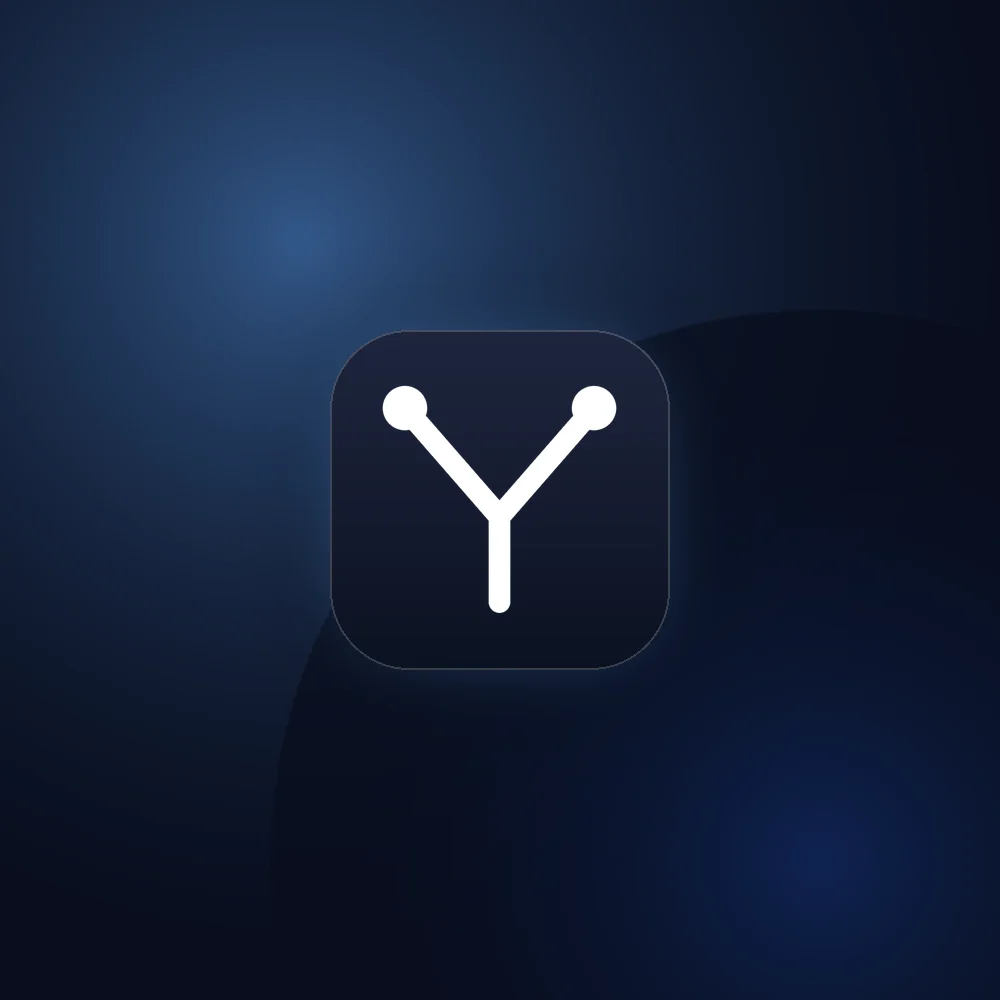
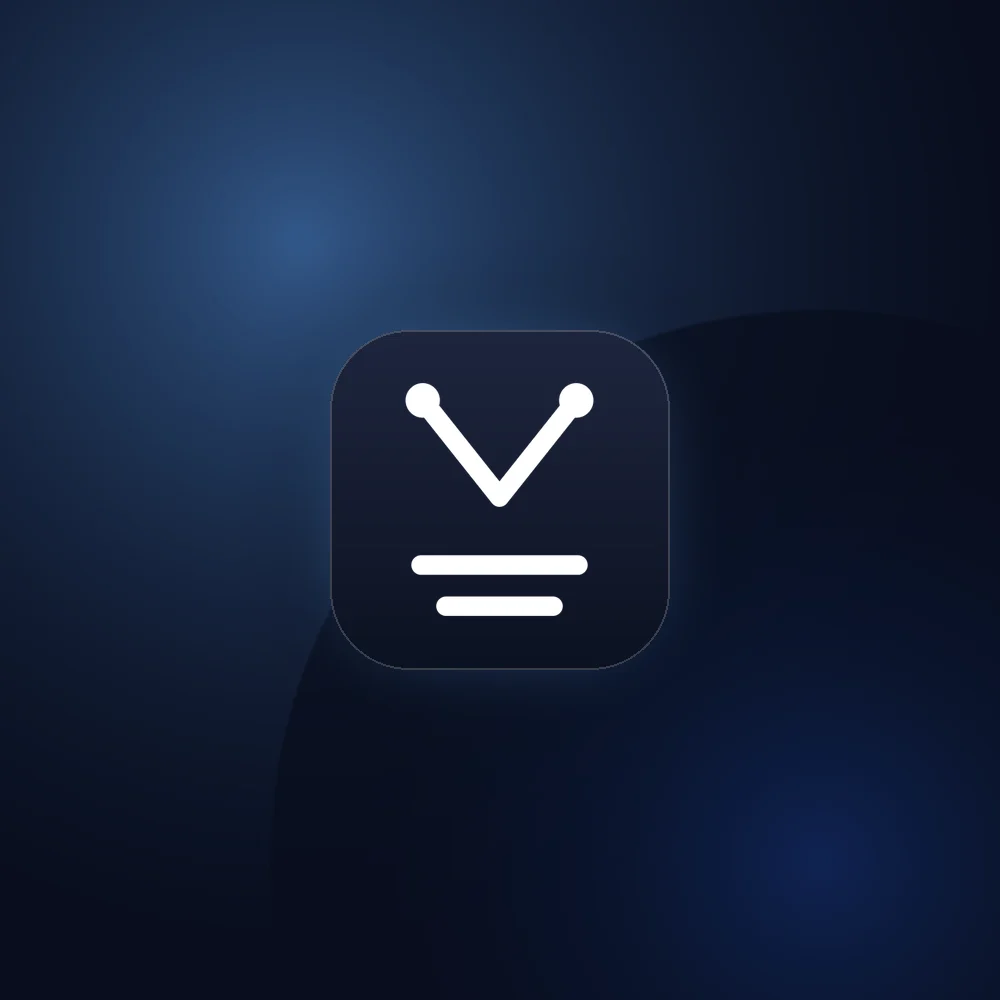
style(ot-core): the mark was a letter, not a meaning
The first pass drew two dots, two converging arms and a stem, which is a
perfectly good letter Y and says nothing about the library. In a grid of
app icons it read as a monogram — and Y is taken several times over.

Adding the document the two writers converge on turns the same shape into
a sentence: these two, into that. The arms are steeper as well, because a
wide V reads as a chevron pointing down while a narrow one reads as two
things arriving at the same place.

Two lines underneath rather than three. A third outweighs the pair above
it, and the eye then takes the paragraph as the subject and the arms as
decoration, which inverts what the mark is for.

Only ot-core's cover changed; the other six regenerated byte-identical.

Changed region(s): [[0.372, 0.372, 0.62, 0.62]]

diff --git a/scripts/make-ot-icon.py b/scripts/make-ot-icon.py
@@ -1,16 +1,31 @@
 """
-The ot-core mark: two edit streams converging into one.
+The ot-core mark: two writers, one document.
 
-Two people write independently — the two dots and the two arms — and the
-algorithm brings them to one agreed document, the trunk. The whole library in
-one glyph, and it survives being shrunk to 24px in a list.
+Two people edit at once — the pair of dots, and the arms converging from them —
+and what they produce is a single agreed document, the lines underneath.
 
-Strokes are painted as a run of overlapping discs rather than with
-ImageDraw.line(width=...), whose mitred joints shed visible barbs along a
-curve. A disc brush gives clean round caps and joins for free. Drawn at 4x and
+The first version of this was just the arms and a stem, which drew a passable
+letter Y and said nothing. A reader saw a monogram. Adding the document turns
+the same convergence into a sentence: *these two, into that*. It is also what
+separates the mark from every other Y in a grid of app icons.
+
+Two lines below rather than three. A third makes the block heavier than the
+pair above it, and the eye then reads the paragraph as the subject with the
+arms as decoration — which inverts the point.
+
+Strokes are painted as runs of overlapping discs rather than with
+ImageDraw.line(width=...), whose mitred joints shed visible barbs along an
+angle. A disc brush gives clean round caps and joins for free. Drawn at 4x and
 downsampled, since PIL antialiases nothing on its own.
+
+    python3 scripts/make-ot-icon.py
+
+Then regenerate the cover:
+
+    python3 scripts/make-covers.py src/assets/icons src/assets/covers
 """
 from PIL import Image, ImageDraw
+import pathlib
 
 S, SS = 512, 4
 N = S * SS
@@ -19,29 +34,36 @@ WHITE = (255, 255, 255, 255)
 img = Image.new("RGBA", (N, N), (0, 0, 0, 0))
 d = ImageDraw.Draw(img)
 
+
 def disc(x, y, r):
     d.ellipse([x - r, y - r, x + r, y + r], fill=WHITE)
 
-def stroke(p0, p1, r, steps=260):
+
+def stroke(p0, p1, r, steps=340):
     for i in range(steps + 1):
         t = i / steps
         disc(p0[0] + (p1[0] - p0[0]) * t, p0[1] + (p1[1] - p0[1]) * t, r)
 
-R = N * 0.030                      # stroke radius
-top, meet, foot = N * 0.255, N * 0.560, N * 0.800
-left, right, mid = N * 0.235, N * 0.765, N * 0.500
 
-stroke((left,  top),  (mid, meet), R)     # one writer
-stroke((right, top),  (mid, meet), R)     # the other
-stroke((mid,   meet), (mid, foot), R)     # the document they agree on
+def bar(cx, y, w, r):
+    stroke((cx - w / 2, y), (cx + w / 2, y), r)
 
-for x in (left, right):                   # the writers themselves
-    disc(x, top, N * 0.062)
 
-img.resize((S, S), Image.LANCZOS).save("src/assets/icons/otCoreIcon.png")
+R = N * 0.027
+mid = N * 0.5
+top, meet = N * 0.185, N * 0.455
 
-# Preview on the plate colour the cover script uses.
-im = Image.open("src/assets/icons/otCoreIcon.png").convert("RGBA")
-bg = Image.new("RGBA", im.size, (13, 20, 42, 255))
-Image.alpha_composite(bg, im).convert("RGB").save("/tmp/icon-preview.png")
-print("wrote icon + preview")
+# The two writers, and their edits arriving at the same place. Steep rather
+# than shallow: a wide V reads as a chevron pointing down, a narrow one reads
+# as two things converging.
+for x in (N * 0.285, N * 0.715):
+    stroke((x, top), (mid, meet), R)
+    disc(x, top, N * 0.048)
+
+# What they agree on.
+bar(mid, N * 0.645, N * 0.44, R)
+bar(mid, N * 0.760, N * 0.30, R)
+
+out = pathlib.Path(__file__).resolve().parent.parent / "src/assets/icons/otCoreIcon.png"
+img.resize((S, S), Image.LANCZOS).save(out)
+print(f"  {out.name}  {out.stat().st_size / 1024:.0f} kB")
